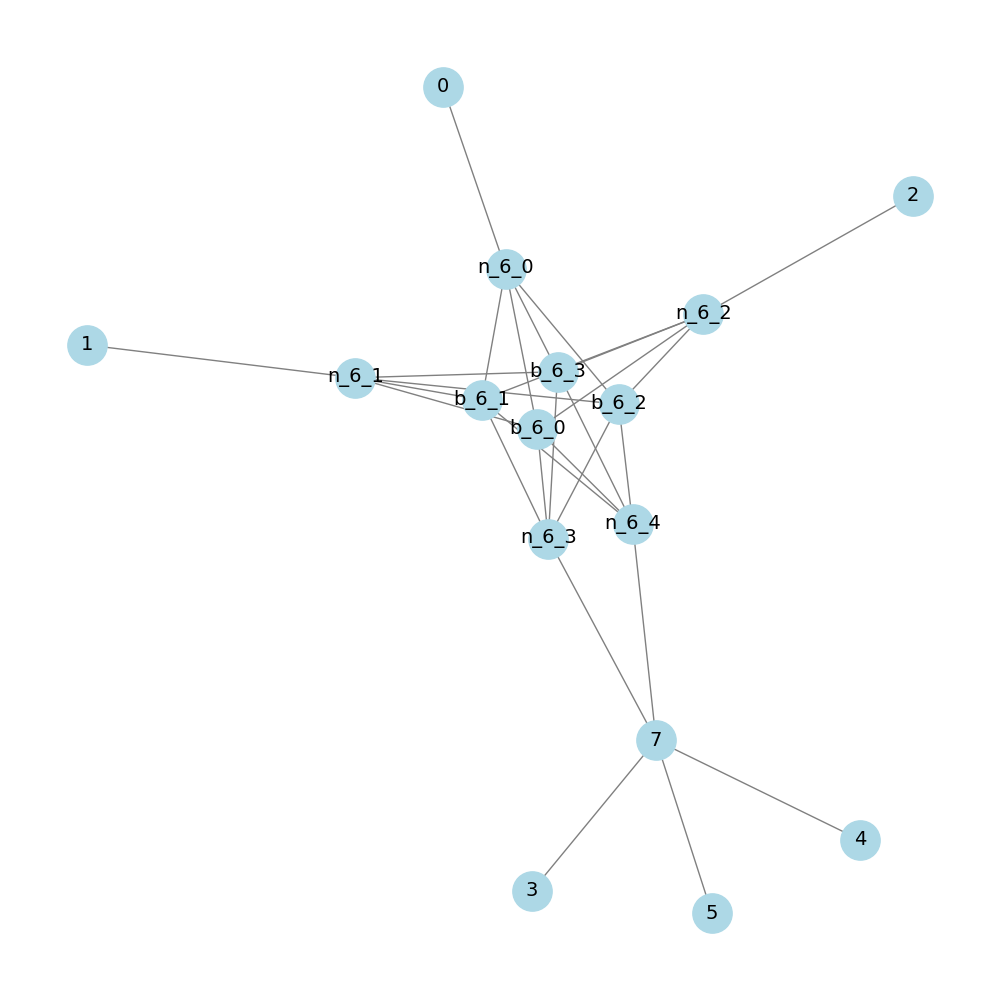
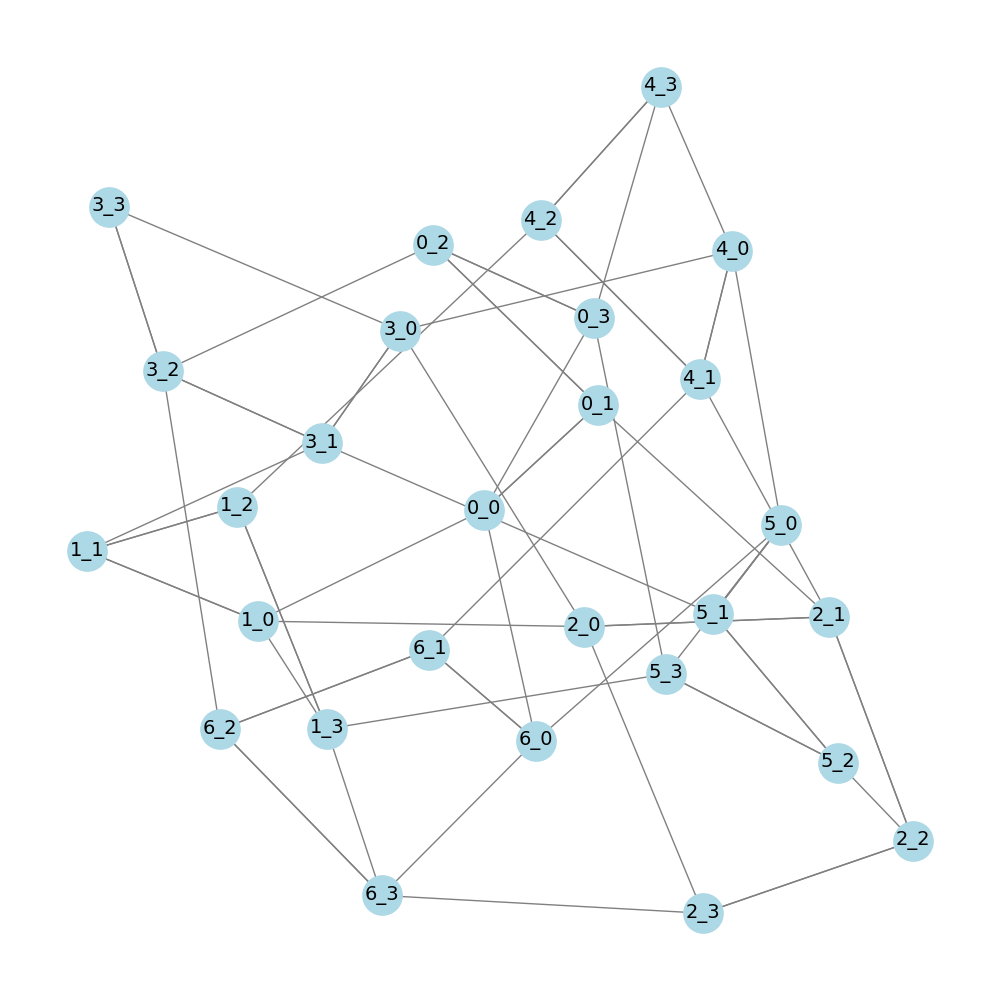
k7

diff --git a/python/scripts/some_graph2.py b/python/scripts/some_graph2.py
@@ -1,5 +1,7 @@
 import networkx as nx
 from functions_d.is_colorable import is_multigraph_edge_k_colorable
+import matplotlib.pyplot as plt
+from functions_d.draw_multigraph import draw_multigraph
 
 def multigraph_edge_connectivity(G):
     H = nx.Graph()
@@ -16,14 +18,38 @@ def multigraph_edge_connectivity(G):
 
 def main():
     G = nx.MultiGraph()
-    G.add_edges_from(nx.complete_graph(5).edges)
-
-    G.add_edge(0,5)
-    G.add_edge(3,5)
-    G.add_edge(4,5)
-    G.add_edge(1,5)
-    G.add_edge(2,6)
-    G.add_edge(5,6)
+    
+    for i in range(0,7):
+        prev = (i-1)%7
+        next = (i+1)%7
+        G.add_edge(f"{i}_0",f"{i}_1")
+        G.add_edge(f"{i}_0",f"{i}_1")
+        
+        G.add_edge(f"{i}_2",f"{i}_1")
+        G.add_edge(f"{i}_2",f"{i}_1")
+        
+        G.add_edge(f"{i}_2",f"{i}_3")
+        G.add_edge(f"{i}_2",f"{i}_3")
+        
+        G.add_edge(f"{i}_0",f"{i}_3")
+        
+        if i < (i+6)%7:
+            G.add_edge(f"{i}_0",f"{(i+6)%7}_0")
+        if i < (i+1)%7:
+            G.add_edge(f"{i}_0",f"{(i+1)%7}_0")
+        if i < (i+2)%7:
+            G.add_edge(f"{i}_1",f"{(i+2)%7}_3")
+        if i < (i+3)%7:
+            G.add_edge(f"{i}_2",f"{(i+3)%7}_3")
+        if i < (i+4)%7:
+            G.add_edge(f"{i}_3",f"{(i+4)%7}_1")
+        if i < (i+5)%7:
+            G.add_edge(f"{i}_3",f"{(i+5)%7}_2")
+        
+    G.add_edge("4_2", "6_3")
+    G.remove_edge("4_1","6_3")
+    draw_multigraph(G,"multi.png")
+        
 
     
     print(nx.degree_histogram(G))

diff --git a/python/functions_d/draw_multigraph.py b/python/functions_d/draw_multigraph.py
@@ -10,7 +10,7 @@ def draw_multigraph(G, filename="multigraph.png"):
     plt.figure(figsize=(10, 8))
     
     # Color nodes with degree < 5 differently (e.g., orange)
-    node_colors = ['orange' if G.degree(n) < 5 else 'lightblue' for n in G.nodes()]
+    node_colors = ['orange' if G.degree(n) != 5 else 'lightblue' for n in G.nodes()]
     nx.draw_networkx_nodes(G, pos, node_color=node_colors, node_size=500, edgecolors='black')
     nx.draw_networkx_labels(G, pos)
     